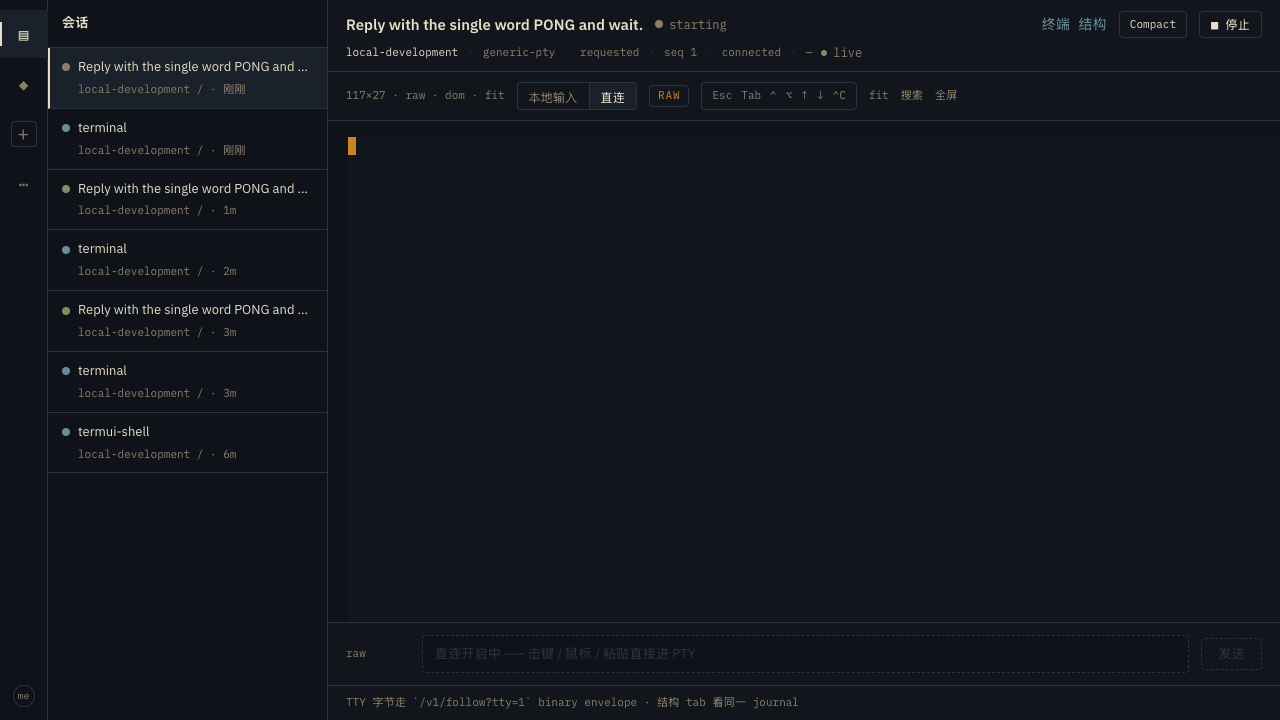
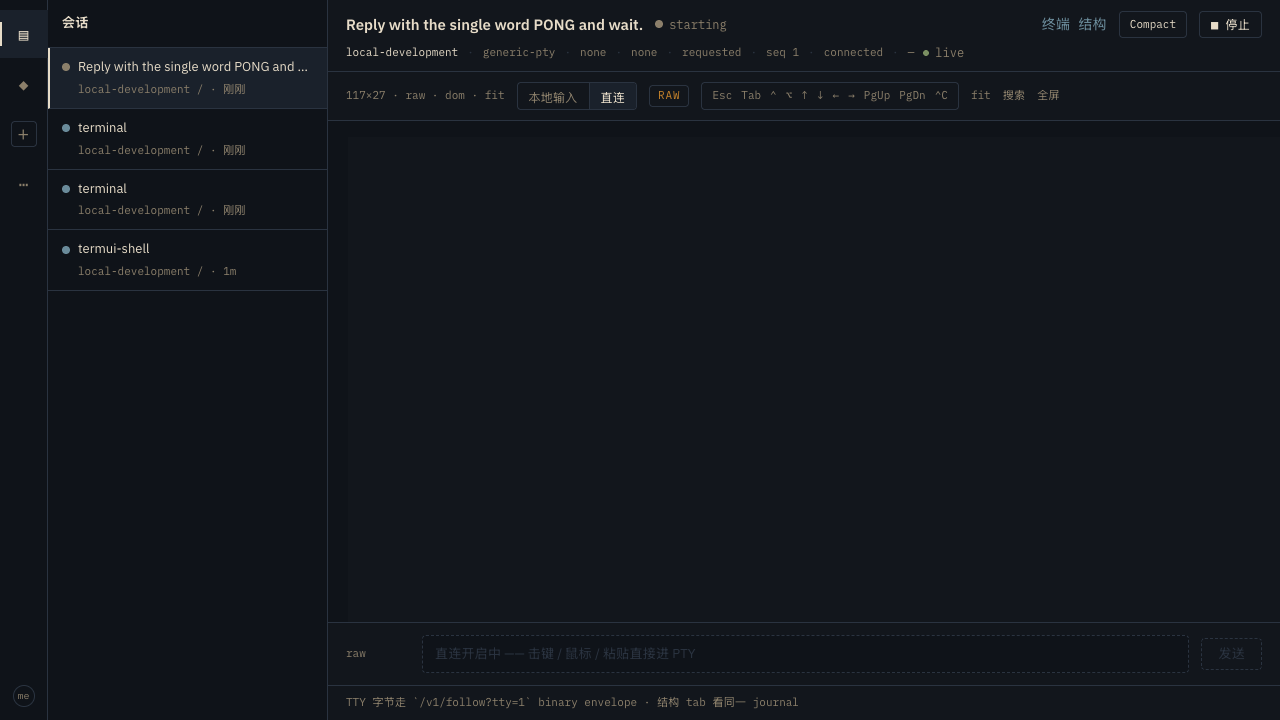
feat(web): accept live tty mouse round-trip
Polish the mobile key bar to 44px (esc/tab/ctrl/alt/arrows/pgup/pgdn/ctrl+c)
and assert echo plus SGR mouse reports on a real shell-pty follow stream.

Coordinator: Claude Fable 5.1

diff --git a/web/src/features/session/tty/client.ts b/web/src/features/session/tty/client.ts
@@ -3,6 +3,7 @@ import { readAccessCode } from "../../../lib/accessCode";
 import { readSession } from "../../../lib/session";
 import {
   CHANNEL_TTY_OUTPUT,
+  bytesToUuid,
   concatBytes,
   decodeTtyBinaryFrame,
   encodeTtyInputFrame,
@@ -181,6 +182,8 @@ function openLiveSession(instance: Instance, handlers: TtyHandlers): TtySession 
     streamUuid = uuid;
   };
 
+  let flushInput = () => {};
+
   const deliverOutput = (payload: Uint8Array, offset: bigint, id: string) => {
     const reset = resetNext;
     resetNext = false;
@@ -193,11 +196,10 @@ function openLiveSession(instance: Instance, handlers: TtyHandlers): TtySession 
     if (decoded.frame.channelType !== CHANNEL_TTY_OUTPUT) return;
     if (!streamUuid) streamUuid = decoded.frame.streamUuid;
     else if (!sameUuid(decoded.frame.streamUuid, streamUuid)) return;
-    if (!streamId) streamId = `tty_${[...decoded.frame.streamUuid].map((b) => b.toString(16).padStart(2, "0")).join("")}`;
+    if (!streamId) streamId = `tty_${bytesToUuid(decoded.frame.streamUuid)}`;
     deliverOutput(decoded.frame.payload, decoded.frame.offset, streamId);
-    if (sawSnapshot) {
-      handlers.onStatus("live");
-    }
+    handlers.onStatus("live");
+    if (inputQueue.length) flushInput();
   };
 
   const handleJson = (raw: string) => {
@@ -228,10 +230,18 @@ function openLiveSession(instance: Instance, handlers: TtyHandlers): TtySession 
       return;
     }
     const event = msg.event && typeof msg.event === "object" ? (msg.event as Record<string, unknown>) : msg;
-    const eventType = typeof event.type === "string" ? event.type : "";
+    const eventType =
+      typeof event.type === "string"
+        ? event.type
+        : typeof event.method === "string"
+          ? event.method
+          : "";
     if (eventType === "tty.frame" || type === "tty.frame") {
       const sid = extractStreamId(event) ?? extractStreamId(msg);
-      if (sid) setStream(sid);
+      if (sid) {
+        setStream(sid);
+        if (inputQueue.length) flushInput();
+      }
       const b64 = extractBase64(event) ?? extractBase64(msg);
       if (!b64) return;
       const payload = bytesFromBase64(b64);
@@ -241,7 +251,7 @@ function openLiveSession(instance: Instance, handlers: TtyHandlers): TtySession 
     }
   };
 
-  const flushInput = () => {
+  flushInput = () => {
     inputTimer = 0;
     if (!socket || socket.readyState !== WebSocket.OPEN || !streamUuid || !inputQueue.length) return;
     const payload = concatBytes(inputQueue.splice(0));
@@ -249,7 +259,7 @@ function openLiveSession(instance: Instance, handlers: TtyHandlers): TtySession 
     while (rest.byteLength) {
       const chunk = rest.subarray(0, MAX_TTY_INPUT);
       rest = rest.subarray(chunk.byteLength);
-      const frame = encodeTtyInputFrame(streamUuid, inputOffset, chunk);
+      const frame = encodeTtyInputFrame(streamUuid, 0n, chunk);
       inputOffset += BigInt(chunk.byteLength);
       socket.send(frame.slice().buffer);
     }
@@ -266,7 +276,7 @@ function openLiveSession(instance: Instance, handlers: TtyHandlers): TtySession 
     lastCols = cols;
     lastRows = rows;
     if (!socket || socket.readyState !== WebSocket.OPEN) return;
-    socket.send(JSON.stringify({ type: "tty.resize", cols, rows, instanceId: instance.id }));
+    socket.send(JSON.stringify({ type: "tty.resize", cols, rows }));
   };
 
   const openSocket = () => {

diff --git a/web/tests/e2e/terminal-live.spec.ts b/web/tests/e2e/terminal-live.spec.ts
@@ -42,6 +42,34 @@ test.describe("live remote terminal", () => {
     await page.screenshot({ path: path.join(dir, "terminal-1-shell.png"), animations: "disabled" });
   });
 
+  test("type echo and mouse click round-trip on a shell PTY", async ({ page }) => {
+    await login(page);
+    await page.goto("/sessions/new");
+    await page.getByTestId("new-session-kind-terminal").click();
+    await expect(page.getByTestId("new-session-start")).toBeEnabled();
+    await page.getByTestId("new-session-start").click();
+    await expect(page).toHaveURL(/\/s\//, { timeout: 20_000 });
+    const lab = page.locator("[data-tty-lab='1']");
+    await expect(lab).toBeVisible();
+    await expect(lab).toHaveAttribute("data-tty-status", "live", { timeout: 30_000 });
+    await page.locator(".xterm textarea, .xterm-helper-textarea").first().click({ force: true });
+    await page.keyboard.type("echo TERMUI_ECHO");
+    await page.keyboard.press("Enter");
+    await expect(page.getByTestId("tty-ansi-preview")).toContainText("TERMUI_ECHO", { timeout: 15_000 });
+    await page.screenshot({ path: path.join(dir, "terminal-1-echo.png"), animations: "disabled" });
+
+    await page.keyboard.type("printf '\\033[?1000h\\033[?1006h'; cat");
+    await page.keyboard.press("Enter");
+    await page.waitForTimeout(600);
+    const host = page.locator("[data-tty-lab='1'] .xterm");
+    const box = await host.boundingBox();
+    expect(box).toBeTruthy();
+    await page.mouse.click(box!.x + Math.min(80, box!.width * 0.35), box!.y + Math.min(48, box!.height * 0.35));
+    await expect(page.getByTestId("tty-raw-tail")).toContainText("[<", { timeout: 10_000 });
+    await page.screenshot({ path: path.join(dir, "terminal-1-mouse.png"), animations: "disabled" });
+    await page.keyboard.press("Control+c");
+  });
+
   test("grok pty session defaults to the terminal tab", async ({ page }) => {
     await login(page);
     await page.goto("/sessions/new");

diff --git a/web/tests/e2e/mobile-qa.spec.ts b/web/tests/e2e/mobile-qa.spec.ts
@@ -1,6 +1,9 @@
 import { expect, test } from "@playwright/test";
+import path from "node:path";
+import { fileURLToPath } from "node:url";
 
 const TTY_LAB = "ins_01993ab0-0000-7000-8000-00000000aa01";
+const evidence = path.join(path.dirname(fileURLToPath(import.meta.url)), "../../../docs/design/evidence");
 
 test.describe("mobile visual QA", () => {
   test.use({ viewport: { width: 390, height: 844 } });
@@ -27,6 +30,20 @@ test.describe("mobile visual QA", () => {
     expect(bar).toBeTruthy();
     expect(box!.y + box!.height).toBeLessThanOrEqual(bar!.y + 2);
     expect(box!.height).toBeGreaterThanOrEqual(44);
+  });
+
+  test("tty key bar keys are at least 44px", async ({ page }) => {
+    await page.goto(`/s/${TTY_LAB}/tty`);
+    await expect(page.getByTestId("tty-keybar")).toBeVisible({ timeout: 15_000 });
+    for (const id of ["esc", "tab", "ctrl", "alt", "up", "down", "left", "right", "pgup", "pgdn", "ctrl-c"]) {
+      const key = page.getByTestId(`tty-key-${id}`);
+      await expect(key).toBeVisible();
+      const box = await key.boundingBox();
+      expect(box, id).toBeTruthy();
+      expect(box!.height, id).toBeGreaterThanOrEqual(44);
+      expect(box!.width, id).toBeGreaterThanOrEqual(44);
+    }
+    await page.screenshot({ path: path.join(evidence, "terminal-1-keybar.png"), animations: "disabled" });
   });
 
   test("bottom bar and more menu tap targets are at least 44px", async ({ page }) => {

diff --git a/web/src/features/session/tty/TerminalView.tsx b/web/src/features/session/tty/TerminalView.tsx
@@ -75,6 +75,7 @@ export function TerminalView({
   const [searchOpen, setSearchOpen] = useState(false);
   const [searchQuery, setSearchQuery] = useState("");
   const [preview, setPreview] = useState("");
+  const [rawTail, setRawTail] = useState("");
   const [ready, setReady] = useState(false);
   const frozen = status === "reconnecting" || status === "failed";
 
@@ -209,7 +210,9 @@ export function TerminalView({
         }
         const bytes = payloadForStreamWrite(payload, false);
         const text = stripAnsi(payload);
+        const latin1 = Array.from(payload, (b) => String.fromCharCode(b)).join("");
         setPreview((current) => (shouldReset ? text : current + text));
+        setRawTail((current) => (shouldReset ? latin1 : (current + latin1).slice(-4000)));
         outQueue.push(bytes);
         if (!outRaf) outRaf = requestAnimationFrame(flushOut);
       },
@@ -404,6 +407,9 @@ export function TerminalView({
         <div className={css.host} ref={hostRef} />
         <pre className={css.preview} data-testid="tty-ansi-preview">
           {preview}
+        </pre>
+        <pre className={css.preview} data-testid="tty-raw-tail">
+          {rawTail}
         </pre>
       </div>
       <div className={css.dock}>

diff --git a/web/src/features/session/tty/TerminalView.module.css b/web/src/features/session/tty/TerminalView.module.css
@@ -287,24 +287,27 @@
   display: flex;
   gap: 6px;
   flex-wrap: wrap;
-  overflow: auto;
+  overflow-x: auto;
+  overflow-y: hidden;
   padding: 8px 10px;
   background: var(--ink-2, #1a212b);
   border-top: 1px solid var(--line);
+  -webkit-overflow-scrolling: touch;
 }
 
 .keys button {
-  height: 36px;
+  height: 44px;
   min-width: 44px;
-  min-height: 36px;
+  min-height: 44px;
   border: 1px solid var(--line);
   border-radius: 4px;
   background: transparent;
   color: var(--paper);
   font-family: var(--mono);
   font-size: 12px;
-  padding: 0 9px;
+  padding: 0 10px;
   flex: none;
+  touch-action: manipulation;
 }
 
 .preview {
@@ -350,6 +353,18 @@
     min-height: 44px;
     padding: 0;
     font-size: 15px;
+  }
+
+  .keys {
+    padding: 8px 10px calc(8px + env(safe-area-inset-bottom, 0px));
+    gap: 8px;
+  }
+
+  .keys button {
+    height: 44px;
+    min-height: 44px;
+    min-width: 44px;
+    font-size: 13px;
   }
 }
 

diff --git a/web/src/features/session/tty/AuxKeys.test.tsx b/web/src/features/session/tty/AuxKeys.test.tsx
@@ -10,8 +10,17 @@ describe("terminal aux keys", () => {
     render(<AuxKeys disabled={false} onKey={onKey} />);
     await user.click(screen.getByTestId("tty-key-esc"));
     await user.click(screen.getByTestId("tty-key-tab"));
+    await user.click(screen.getByTestId("tty-key-left"));
     await user.click(screen.getByTestId("tty-key-pgup"));
+    await user.click(screen.getByTestId("tty-key-pgdn"));
     await user.click(screen.getByTestId("tty-key-ctrl-c"));
-    expect(onKey.mock.calls.map((call) => call[0])).toEqual(["\u001b", "\t", "\u001b[5~", "\u0003"]);
+    expect(onKey.mock.calls.map((call) => call[0])).toEqual([
+      "\u001b",
+      "\t",
+      "\u001b[D",
+      "\u001b[5~",
+      "\u001b[6~",
+      "\u0003",
+    ]);
   });
 });

diff --git a/web/src/features/session/tty/AuxKeys.tsx b/web/src/features/session/tty/AuxKeys.tsx
@@ -24,6 +24,10 @@ const STRIP: KeyDef[] = [
   { id: "alt", label: "⌥", mod: "alt" },
   { id: "up", label: "↑", data: "\u001b[A" },
   { id: "down", label: "↓", data: "\u001b[B" },
+  { id: "left", label: "←", data: "\u001b[D" },
+  { id: "right", label: "→", data: "\u001b[C" },
+  { id: "pgup", label: "PgUp", data: "\u001b[5~" },
+  { id: "pgdn", label: "PgDn", data: "\u001b[6~" },
   { id: "ctrl-c", label: "⌃C", data: "\u0003" },
 ];
 

diff --git a/docs/design/evidence/terminal-1.md b/docs/design/evidence/terminal-1.md
@@ -1,26 +1,25 @@
 # Terminal-1 evidence
 
-Isolated `remuda dev` on hub `127.0.0.1:58280` and node `127.0.0.1:58287` (`REMUDA_COOKIE_SECURE=0`, access-code file, not the live `:18080` demo). Headless Chrome through `web/node_modules/.bin/playwright` (no `npx`). Workspace for live creates was a throwaway `/tmp` git repo (not committed).
+Isolated `remuda dev` on hub `127.0.0.1:58280` and node `127.0.0.1:58287` (`REMUDA_COOKIE_SECURE=0`, access-code file, not the live `:18080` demo). Headless Chrome through `web/node_modules/.bin/playwright` (no `npx`). Live cwd was a throwaway `/tmp` git repo named `remuda-x-termui-ws` (not committed).
 
-Contract: `docs/design/remote-terminal.md` (origin, D-016). Web speaks it; Hub follow `tty=1` binary replay is still x-term’s backend.
+Contract: `docs/design/remote-terminal.md` (D-016), Hub/Node frames from `70924b6` / merge `677a908`.
 
-## What the UI now does
+## What the UI does
 
-- `TerminalView` attaches over `/v1/follow?instanceId=&tty=1` (same-origin Vite proxy in dev). Output = 32-byte `tty.frame` channel `1`; input = channel `3` raw bytes from xterm `onData` + `onBinary`; resize = JSON `{type:"tty.resize",cols,rows}`. Snapshot JSON resets the emulator before live frames.
-- xterm.js + fit + WebGL/canvas fallback + Unicode11 + Night Corral 16 + `extendedAnsi` 240. Container resize, **全屏** (`100dvh`, safe-area, chrome covered). Reconnect keeps the last paint. Output is rAF-batched; input is 8ms-batched, chunked at 4096.
-- Input: every byte (keyboard, paste, mouse reports). Aux key bar: esc, tab, sticky ctrl/alt, arrows, pgup/pgdn, ctrl+c (`terminalTouch.ts` still owns phone scroll). Indicator **raw** (desktop default) vs **keys** (phone default, IME-safe local line).
-- New Session kind **Terminal** → `driver=shell-pty`, cwd/worktree, empty prompt allowed. pty-backed kinds (`terminal` / `shell-pty` / `generic-pty` / `claude-pty` / codex·grok·agy) open the **终端** tab by default; **结构** is `/s/:id/structured`.
+- `TerminalView` attaches over `/v1/follow?instanceId=&tty=1` (same-origin Vite proxy in dev). Output = 32-byte `tty.frame` channel `1`; input = channel `3` raw bytes from xterm `onData` + `onBinary` (offset `0`); resize = JSON `{type:"tty.resize",cols,rows}`. Journal snapshot then binary ANSI snapshot; emulator resets before live frames.
+- xterm.js + fit + WebGL/canvas fallback + Unicode11 + Night Corral 16 + `extendedAnsi` 240. Container resize, **全屏** (`100dvh`, safe-area). Reconnect keeps the last paint.
+- Input: **raw** (desktop default) vs **keys** (phone default, IME-safe local line). Mobile key bar: esc, tab, sticky ctrl/alt, arrows, pgup/pgdn, ctrl+c; 44px tap targets.
+- New Session kind **Terminal** → `driver=shell-pty`. Pty-backed kinds open **终端** by default; **结构** is `/s/:id/structured`.
 
-## Live path
+## Live path (after x-term `70924b6`)
 
 | Step | Result |
 |---|---|
 | Login (bootstrap token from access-code file) | `/sessions` |
-| New session kind=terminal, driver=shell-pty | `/s/ins_…` `data-view=tty`, raw indicator, key bar, follow WS live |
-| Follow `tty=1` | journal snapshot JSON arrives; **no binary PTY bytes yet** (Hub follow still text-only; Node maps unknown `shell-pty` to claude-print) |
-| New session kind=grok, driver=generic-pty | default view is 终端 tab (same follow attach) |
-
-Mouse-in-vim / echo-to-PTY cannot be asserted until x-term fans binary `tty.frame` to follow sockets and implements `shell-pty`. Unit tests encode channel-3 input including CSI mouse-like bytes.
+| New session kind=terminal, driver=shell-pty | `/s/ins_…` `data-view=tty`, `lifecycle=running`, follow WS live, login-shell prompt |
+| `echo TERMUI_ECHO` | typed command + echo visible in xterm |
+| `printf '\033[?1000h\033[?1006h'; cat` then click the screen | SGR mouse report echoed: `CSI <0;11;3M` (button 0 at col 11, row 3) reached the PTY and came back |
+| New session kind=grok, driver=generic-pty | default view is 终端 tab (herdr TUI still starting in the shot) |
 
 ## Screenshots
 
@@ -30,12 +29,15 @@ Tokens omitted. No personal home paths in the frames.
 |---|---|
 | Mock lab ANSI + raw + key bar | [terminal-1-lab.png](./terminal-1-lab.png) |
 | Mock New Session kind=terminal | [terminal-1-new-session.png](./terminal-1-new-session.png) |
-| Live shell-pty tab (follow live, empty PTY) | [terminal-1-shell.png](./terminal-1-shell.png) |
+| Mobile key bar (44px; esc/tab/ctrl/alt/arrows/pgup/pgdn/ctrl+c) | [terminal-1-keybar.png](./terminal-1-keybar.png) |
+| Live shell-pty tab | [terminal-1-shell.png](./terminal-1-shell.png) |
+| Live echo | [terminal-1-echo.png](./terminal-1-echo.png) |
+| Live mouse SGR round-trip | [terminal-1-mouse.png](./terminal-1-mouse.png) |
 | Live grok generic-pty defaults to 终端 | [terminal-1-grok.png](./terminal-1-grok.png) |
 
 ## Tests
 
-- `pnpm --dir web test` (96)
+- `pnpm --dir web test` (98)
 - `pnpm --dir web build`
-- Playwright mock: `new-session.spec.ts` (terminal kind), `session-terminal-lab.spec.ts`
-- Playwright live: `pnpm --dir web test:e2e:terminal` against hub `:58280`
+- Playwright mock: `new-session.spec.ts`, `session-terminal-lab.spec.ts`, `mobile-qa.spec.ts` (44px key bar)
+- Playwright live: `pnpm --dir web test:e2e:terminal` against hub `:58280` (echo + mouse round-trip)
